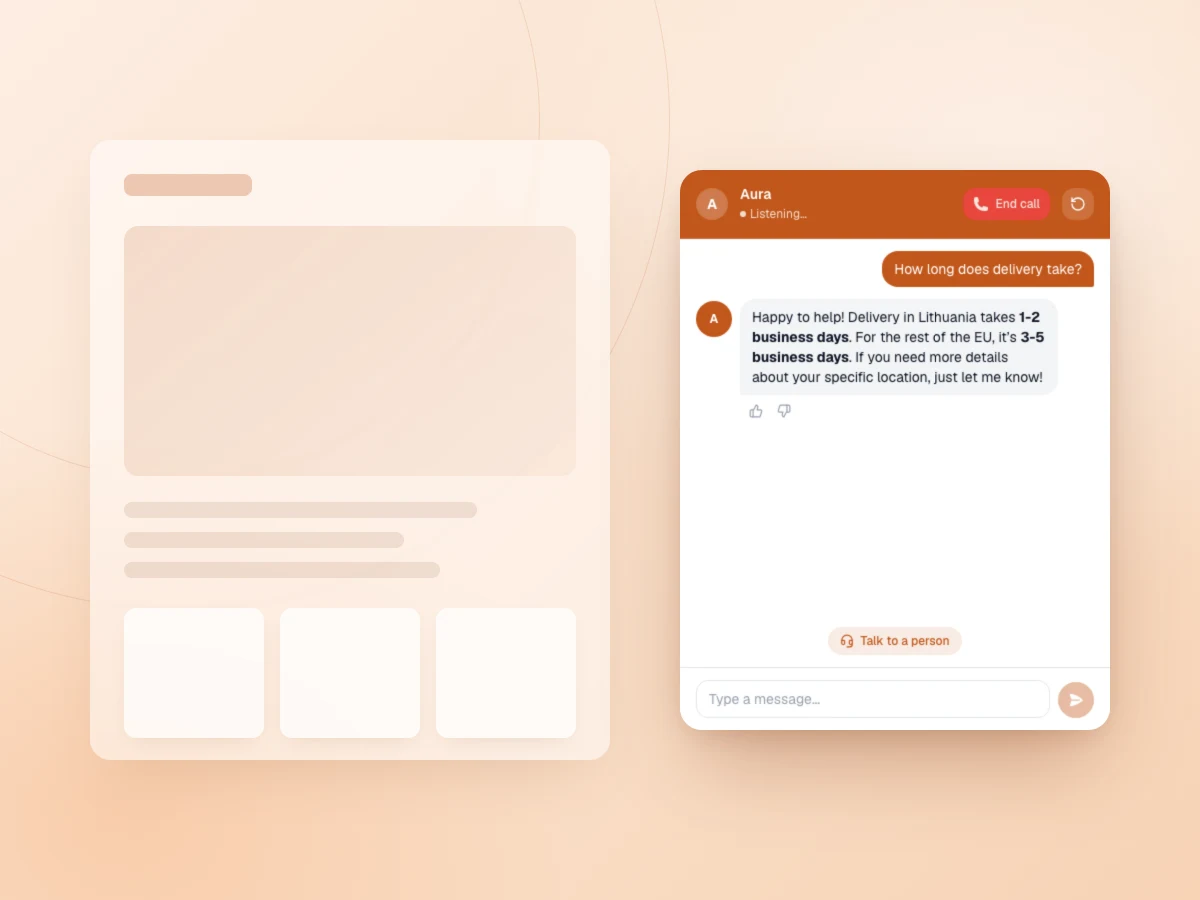
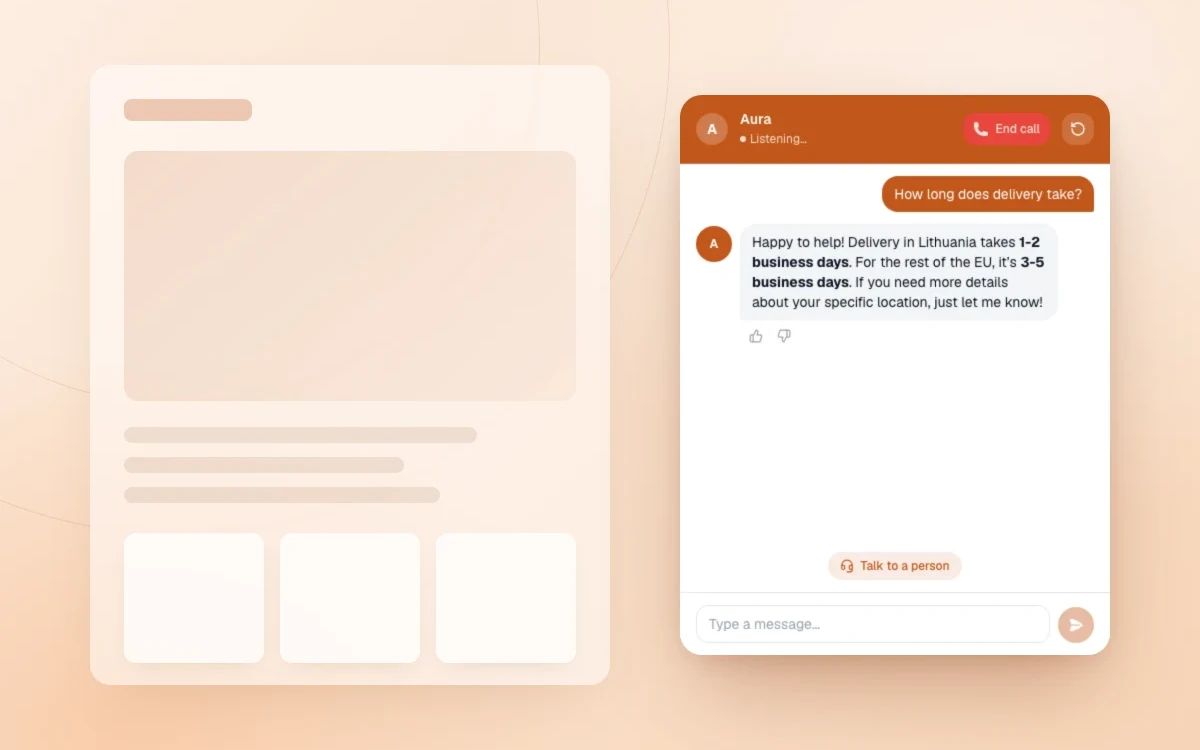
feat(landing): features section redesign — full-bleed rows, continuous spine, 16:10 mockups
Full-width hairline-separated feature rows with half-screen imagery, one
continuous scroll-filling center line with a glowing tip, drift-in images,
and the three widget mockups center-cropped to 16:10. Dashboard shots stay
4:3 until the demo account is rebuilt for a reshoot.

diff --git a/components/landing/sections.tsx b/components/landing/sections.tsx
@@ -10,7 +10,7 @@ import {
 import Image from 'next/image'
 import Link from 'next/link'
 import { Reveal, RevealSlide } from './Reveal'
-import { FeatureText } from './ScrollRevealText'
+import { FeatureSpine, FeatureText } from './ScrollRevealText'
 import { GetStartedDialog } from './GetStartedDialog'
 import { FlickeringGrid } from '@/components/magicui/flickering-grid'
 
@@ -87,33 +87,33 @@ const FEATURES: Feature[] = [
   },
 ]
 
-function FeatureVisual({ imageSrc, imageAlt }: { imageSrc: string; imageAlt: string }) {
-  return (
-    <div
-      className="relative aspect-[4/3] w-full overflow-hidden rounded-2xl shadow-lg"
-      style={{ backgroundImage: 'linear-gradient(135deg, #fdeee2, #f7d3b5)' }}
-    >
-      <Image
-        src={imageSrc}
-        alt={imageAlt}
-        fill
-        sizes="(min-width: 1024px) 50vw, 100vw"
-        className="object-cover"
-      />
-    </div>
-  )
-}
-
 function FeatureRow({ feature, index }: { feature: Feature; index: number }) {
   const reversed = index % 2 === 1
   const num = String(index + 1).padStart(2, '0')
   return (
-    <section className="overflow-x-clip bg-white text-gray-900">
-      <div className="mx-auto grid max-w-7xl items-center gap-10 px-5 py-14 lg:grid-cols-2 lg:gap-16 lg:py-20">
-        <RevealSlide from={reversed ? 'right' : 'left'} className={reversed ? 'lg:order-2' : ''}>
-          <FeatureVisual imageSrc={feature.imageSrc} imageAlt={feature.imageAlt} />
+    <section className="grid border-t border-gray-200 bg-white text-gray-900 lg:grid-cols-2">
+      {/* Visual half: spans hairline to hairline; the 4:3 shot letterboxes inside
+          (object-contain) so nothing is cropped, and drifts in from its outer edge */}
+      <div
+        className={`relative aspect-[4/3] overflow-hidden lg:aspect-auto ${reversed ? 'lg:order-2' : ''}`}
+        style={{ backgroundImage: 'linear-gradient(135deg, #fdeee2, #f7d3b5)' }}
+      >
+        <RevealSlide from={reversed ? 'right' : 'left'} className="absolute inset-0">
+          <Image
+            src={feature.imageSrc}
+            alt={feature.imageAlt}
+            fill
+            sizes="(min-width: 1024px) 50vw, 100vw"
+            className="object-contain"
+          />
         </RevealSlide>
-        <div className={reversed ? 'lg:order-1' : ''}>
+      </div>
+      <div
+        className={`flex items-center justify-center px-5 py-14 sm:px-10 lg:px-16 lg:py-28 ${
+          reversed ? 'lg:order-1' : ''
+        }`}
+      >
+        <div className="w-full max-w-xl">
           <FeatureText number={num} title={feature.title} body={feature.body} accent={ACCENT} />
         </div>
       </div>
@@ -125,7 +125,7 @@ export function Features() {
   return (
     <div id="features">
       <section className="bg-white">
-        <div className="mx-auto max-w-3xl px-5 pt-24 pb-4 text-center">
+        <div className="mx-auto max-w-3xl px-5 pt-24 pb-20 text-center">
           <Reveal>
             <h2 className="text-5xl font-light tracking-tight text-gray-900 sm:text-6xl">
               One agent. Every part of support.
@@ -137,9 +137,13 @@ export function Features() {
           </Reveal>
         </div>
       </section>
-      {FEATURES.map((f, i) => (
-        <FeatureRow key={f.title} feature={f} index={i} />
-      ))}
+      <FeatureSpine>
+        <div className="border-b border-gray-200">
+          {FEATURES.map((f, i) => (
+            <FeatureRow key={f.title} feature={f} index={i} />
+          ))}
+        </div>
+      </FeatureSpine>
     </div>
   )
 }

diff --git a/components/landing/ScrollRevealText.tsx b/components/landing/ScrollRevealText.tsx
@@ -1,6 +1,6 @@
 'use client'
 
-import { useRef } from 'react'
+import { useRef, type ReactNode } from 'react'
 import { motion, useScroll, useTransform, type MotionValue } from 'framer-motion'
 
 function Word({
@@ -21,9 +21,43 @@ function Word({
 }
 
 /**
- * A "Solution"-style feature text block: an accent vertical line that fills as
- * the row scrolls, a number, a title, and a paragraph whose words fill from
- * light grey to solid — all driven by one shared scroll progress.
+ * One continuous vertical line down the center of the whole features stack:
+ * a grey track plus an accent fill that grows as the section scrolls by.
+ * Hidden on mobile where the rows stack.
+ */
+export function FeatureSpine({ children }: { children: ReactNode }) {
+  const ref = useRef<HTMLDivElement>(null)
+  const { scrollYProgress } = useScroll({ target: ref, offset: ['start 0.8', 'end 0.8'] })
+  const fillHeight = useTransform(scrollYProgress, [0, 1], ['0%', '100%'])
+  return (
+    <div ref={ref} className="relative">
+      <span
+        className="absolute left-1/2 top-0 hidden h-full w-0.5 -translate-x-1/2 bg-gray-200 lg:block"
+        aria-hidden="true"
+      />
+      <motion.span
+        className="absolute left-1/2 top-0 z-10 hidden w-0.5 -translate-x-1/2 lg:block"
+        style={{ height: fillHeight, backgroundColor: 'var(--primary)' }}
+        aria-hidden="true"
+      >
+        {/* Glowing tip so the line's progress stays visible on dark imagery */}
+        <span
+          className="absolute -bottom-1 left-1/2 size-2 -translate-x-1/2 rounded-full"
+          style={{
+            backgroundColor: 'var(--primary)',
+            boxShadow: '0 0 10px 3px color-mix(in srgb, var(--primary) 80%, transparent)',
+          }}
+        />
+      </motion.span>
+      {children}
+    </div>
+  )
+}
+
+/**
+ * Feature text block: a number, a title, and a paragraph whose words fill from
+ * light grey to solid as the row scrolls. (The accent line lives in
+ * FeatureSpine — one continuous line for the whole section.)
  */
 export function FeatureText({
   number,
@@ -38,18 +72,10 @@ export function FeatureText({
 }) {
   const ref = useRef<HTMLDivElement>(null)
   const { scrollYProgress } = useScroll({ target: ref, offset: ['start 0.9', 'start 0.4'] })
-  const fillHeight = useTransform(scrollYProgress, [0, 0.85], ['0%', '100%'])
   const words = body.split(' ')
 
   return (
-    <div ref={ref} className="relative pl-6 sm:pl-8">
-      {/* Line: grey track + accent fill that grows with scroll */}
-      <span className="absolute left-0 top-0 h-full w-0.5 rounded-full bg-gray-200" aria-hidden="true" />
-      <motion.span
-        className="absolute left-0 top-0 w-0.5 rounded-full"
-        style={{ height: fillHeight, backgroundColor: accent }}
-        aria-hidden="true"
-      />
+    <div ref={ref}>
       <p className="text-sm font-semibold tracking-[0.2em]" style={{ color: accent }}>
         — {number}
       </p>